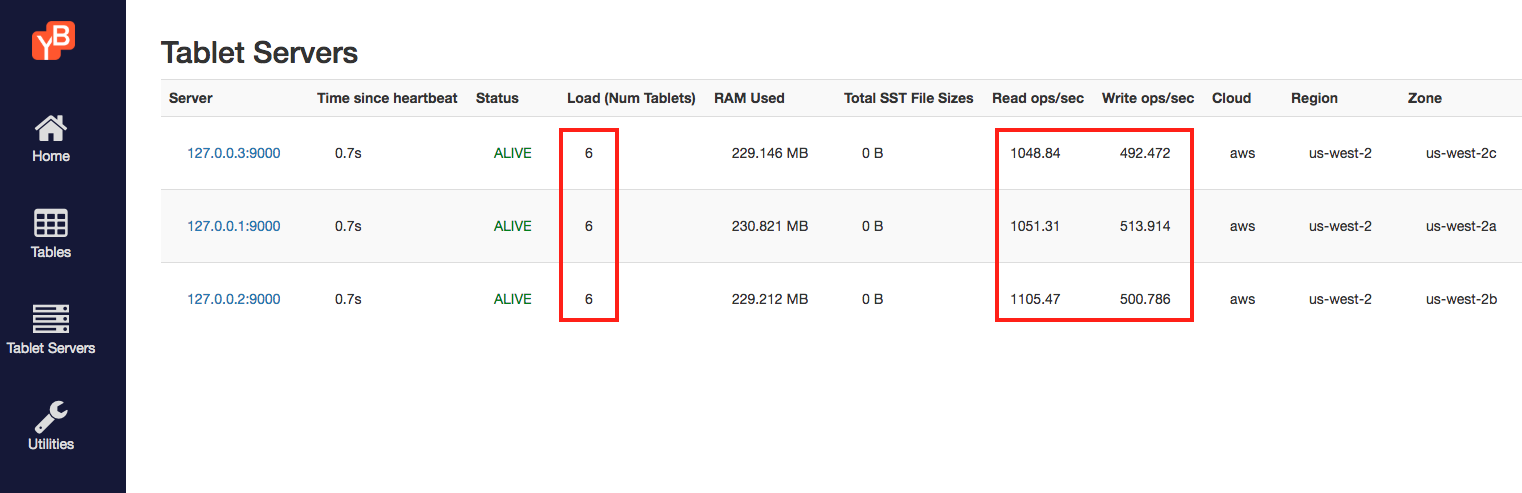
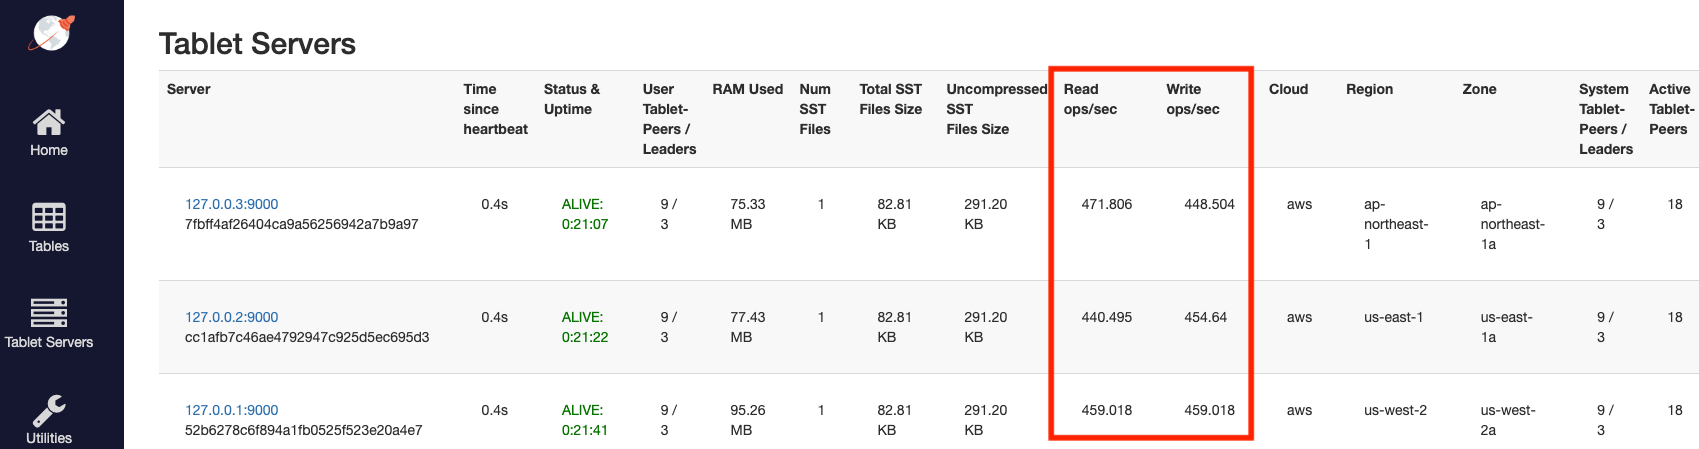
multi-region sync with preferred region

diff --git a/docs/content/preview/explore/multi-region-deployments/synchronous-replication-ysql.md b/docs/content/preview/explore/multi-region-deployments/synchronous-replication-ysql.md
@@ -16,11 +16,9 @@ menu:
 type: docs
 ---
 
-YugabyteDB can be deployed in a globally distributed manner to serve application queries from the region closest to the end users with low latencies as well as to survive any outages to ensure high availability.
+YugabyteDB can be deployed in a globally distributed manner to serve application queries from the region closest to end users with low latencies, as well as to survive any outages to ensure high availability.
 
-In a synchronized multi-region cluster, the nodes of the cluster are deployed in different regions rather than in different availability zones of the same region.
-
-![Single cluster deployed across three regions](/images/yb-cloud/Geo-Distribution-Blog-Post-Image-2.png)
+In a synchronized multi-region cluster, a minimum of 3 nodes are spread across 3 regions with a replication factor (RF) of 3.
 
 This deployment provides the following advantages:
 
@@ -100,18 +98,14 @@ Start a 3-node cluster with a replication factor (RF) of `3`, and each replica p
 1. After starting the yugabyted processes on all the nodes, configure the data placement constraint of the cluster as follows:
 
     ```sh
-    ./bin/yugabyted configure data_placement --fault_tolerance=region
+    ./bin/yugabyted configure data_placement --base_dir=/tmp/ybd1 --fault_tolerance=region
     ```
 
 The [configure](../../../reference/configuration/yugabyted/#configure) command determines the data placement constraint based on the `--cloud_location` of each node in the cluster. If three or more regions are available in the cluster, `configure` configures the cluster to survive at least one region failure. Otherwise, it outputs a warning message. The command can be executed on any node where you already started YugabyteDB.
 
 ## Review the deployment
 
-In this deployment, the YB-Masters are each placed in a separate region to allow them to survive the loss of a region. You can view the masters on the [dashboard](http://localhost:7000/), as per the following illustration:
-
-![Multi-zone cluster YB-Masters](/images/ce/online-reconfig-multi-zone-masters.png)
-
-You can view the tablet servers on the [tablet servers page](http://localhost:7000/tablet-servers), as per the following illustration:
+In this deployment, the YB-Masters are each placed in a separate region to allow them to survive the loss of a region. You can view the tablet servers on the [tablet servers page](http://localhost:7000/tablet-servers), as per the following illustration:
 
 ![Multi-zone cluster YB-TServers](/images/ce/online-reconfig-multi-zone-tservers.png)
 
@@ -132,7 +126,7 @@ For best performance as well as lower data transfer costs, you want to minimize 
 - Use the same cloud provider as your application.
 - Locate your cluster in the same region as your application.
 
-To further improve performance, designate the region closest to your client as the preferred region for all the tablet leaders. The preferred region handles all read and write requests from clients. For multi-row or multi-table transactional operations, colocating the leaders in a single zone or region can help reduce the number of cross-region network hops involved in executing a transaction and, as a result, improve performance.
+To further improve performance, you can designate the region closest to your client as the preferred region for all the tablet leaders. This places all the leaders in the preferred region, and as a result, the preferred region handles all read and write requests from clients. For multi-row or multi-table transactional operations, colocating the leaders in a single zone or region can help reduce the number of cross-region network hops involved in executing a transaction.
 
 The following command sets the preferred zone to `aws.us-west-2.us-west-2a`:
 
@@ -145,13 +139,13 @@ $ ./bin/yb-admin \
 
 You should see the read and write load on the [tablet servers page](http://localhost:7000/tablet-servers) move to the preferred region, as per the following illustration:
 
-![Multi-zone cluster load](/images/ce/online-reconfig-multi-zone-load.png)
+![Multi-zone cluster load](/images/ce/online-reconfig-multi-zone-pref-load.png)
 
 When complete, the load is handled exclusively by the preferred region.
 
 ## Clean up
 
-Optionally, you can shutdown the local cluster created in Step 1, as follows:
+Optionally, you can shutdown the local cluster as follows:
 
 ```sh
 ./bin/yugabyted destroy --base_dir=/tmp/ybd1
